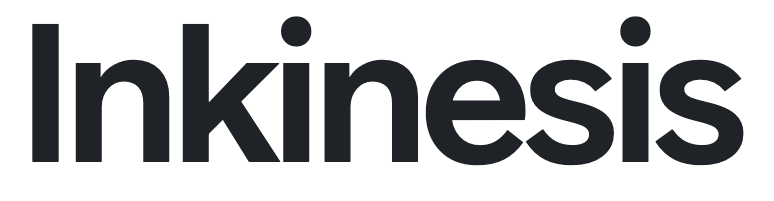
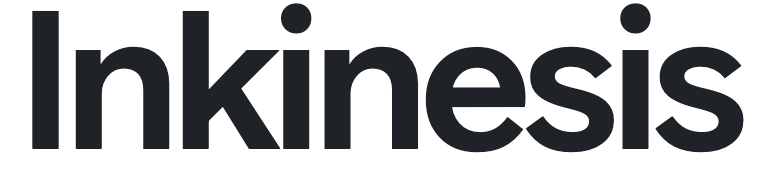
up

diff --git a/README.md b/README.md
@@ -1,11 +1,10 @@
 <div align="center">
 
-<picture>
+<h3><picture>
   <source media="(prefers-color-scheme: dark)" srcset="docs/media/title-dark.png">
-  <img src="docs/media/title-light.png" alt="Inkinesis" width="259">
-</picture>
-
-### Prompt-to-Rig for Anime Characters with Garment Ownership, Held-Object Carriers, and Verified Live2D Export
+  <img src="docs/media/title-light.png" alt="Inkinesis" width="258">
+</picture><br>
+Prompt-to-Rig for Anime Characters with Garment Ownership, Held-Object Carriers, and Verified Live2D Export</h3>
 
 <p><a href="https://wacv.thecvf.com/"><img src="docs/media/wacv-2027.png" alt="WACV 2027" width="222"></a><br><b>Describe a character. Make it move.</b></p>
 
